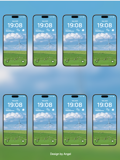
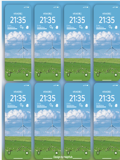
Rebuild multi-phone templates with exact reference-site positions and add variable canvas size
Extracted precise transform matrices (translate/scale) and canvas dimensions
directly from mjcn.club/app's DOM for Boundless 3/4/6/7 and 8/10-device grids,
replacing the earlier hand-tuned approximations. Boundless 6/7 and the 8/10
device grids use non-3:4 canvases (900x1600 and 1600x1600/1600x2133.33) that
this project previously couldn't represent, since every template shared one
hardcoded 1200x1600 canvas.

To support that, changeProtoWidth() and the #content canvas element now read
canvasWidth/canvasHeight from the selected template (defaulting to 1200x1600
for every existing template, so nothing else changes) instead of hardcoding
the 3:4 ratio and 1200px width. Verified default templates and all 8 grid
templates render and export correctly with no console errors.

diff --git a/pages/mockup/index.vue b/pages/mockup/index.vue
@@ -30,8 +30,12 @@ const boundlessThreeImage = '/image/proto/boundless-three.png'
 const boundlessFourImage = '/image/proto/boundless-four.png'
 const seamlessImage = '/image/proto/seamless.png'
 const boundlessFiveImage = '/image/proto/boundless-five.png'
+const boundlessSixImage = '/image/proto/boundless-six.png'
+const boundlessSevenImage = '/image/proto/boundless-seven.png'
 const eightDevicesImage = '/image/proto/eight-devices.png'
+const eightDevices34Image = '/image/proto/eight-devices-34.png'
 const tenDevicesImage = '/image/proto/ten-devices.png'
+const tenDevices34Image = '/image/proto/ten-devices-34.png'
 const magazineImage = '/image/proto/magazine.png'
 const magazineBackgroundImage = '/image/background/magazine.jpg'
 const standImage = '/image/proto/stand.png'
@@ -139,6 +143,11 @@ function changeProtoWidth() {
   let windowWidth = window.innerWidth
   let windowHeight = window.innerHeight
 
+  // 画布尺寸跟随当前选中的模板，未指定时使用默认的 1200x1600
+  let canvasWidth = (selectedProto.value && selectedProto.value.canvasWidth) || 1200
+  let canvasHeight = (selectedProto.value && selectedProto.value.canvasHeight) || 1600
+  let canvasRatio = canvasHeight / canvasWidth
+
   // 判断是横屏还是竖屏
   isVerticalScreen.value = windowWidth < windowHeight
 
@@ -151,22 +160,22 @@ function changeProtoWidth() {
       w.value = maxWidth
     }
 
-    h.value = w.value * 4 / 3;
+    h.value = w.value * canvasRatio;
 
 
-    let s = w.value / 1200
+    let s = w.value / canvasWidth
 
     scale.value = `scale(${s})`
   } else {
     let maxWidth = windowWidth - 328 - 320 - 32;
     let maxHeight = windowHeight - 50 - 60 - 68;
-    let maxHeightToWidth = maxHeight * 3 / 4;
+    let maxHeightToWidth = maxHeight / canvasRatio;
 
     w.value = maxWidth > maxHeightToWidth ? maxHeightToWidth : maxWidth;
 
-    h.value = w.value * 4 / 3;
+    h.value = w.value * canvasRatio;
 
-    let s = w.value / 1200
+    let s = w.value / canvasWidth
 
     scale.value = `scale(${s})`
   }
@@ -420,7 +429,7 @@ function makeGridProto(positions, { defaultScale = 1, frame = true, smartIsLand 
         width: '426px',
         height: '877px',
         transform: `rotate(${rotate}deg) translateX(${pos.x}px) translateY(${pos.y}px) scaleX(${scale}) scaleY(${scale}) perspective(none) skewX(0deg) skewY(0deg) rotateX(0deg) rotateY(0deg) rotateZ(0deg)`,
-        ...(shadow ? { filter: 'drop-shadow(rgba(0, 0, 0, 0.35) -8px 8px 16px)' } : {})
+        ...(shadow ? { filter: 'drop-shadow(rgba(0, 0, 0, 0.4) -10px 5px 20px)' } : {})
       },
       paperStyleMethod: (proto) => {
         return "width: calc(100% - 36px);height: calc(100% - 32px); border-radius: 50px;position: absolute;left: 18px;top: 16px;"
@@ -493,6 +502,8 @@ function protoChange(proto) {
   if (autoUpdate.value) {
     backgroundUrl.value = paperUrl.value
   }
+
+  changeProtoWidth()
 }
 
 let defaultSystemColor = "#ffffff"
@@ -984,21 +995,23 @@ let protoTypeList = ref([
         }
       },
       {
+        // 精确复刻参考站"无界3"：canvas 1200x1600，3台并排，无边框，无阴影
         defaultProtoUrl: boundlessThreeImage,
         exampleName: t("mockup.boundlessThree"),
         protoList: makeGridProto([
-          { x: -330, y: 20, rotate: -8, scale: 0.9 },
-          { x: 330, y: 20, rotate: 8, scale: 0.9 },
-          { x: 0, y: -15, rotate: 0, scale: 1.0 },
-        ], { frame: false, smartIsLand: false, shadow: true }),
+          { x: -385, y: 0, scale: 0.900798 },
+          { x: 0, y: 0, scale: 0.900798 },
+          { x: 385, y: 0, scale: 0.900798 },
+        ], { frame: false, smartIsLand: false, shadow: false }),
         background: makeGridBackground()
       },
       {
+        // 精确复刻参考站"无界4"：canvas 1200x1600，3列x2行网格，无边框，无阴影
         defaultProtoUrl: boundlessFourImage,
         exampleName: t("mockup.boundlessFour"),
         protoList: makeGridProto(
-          gridPositions([-400, 0, 400], [-400, 400]),
-          { defaultScale: 0.85, frame: false, smartIsLand: false, shadow: true }
+          gridPositions([-380, 0, 380], [-380, 380]),
+          { defaultScale: 0.855188, frame: false, smartIsLand: false, shadow: false }
         ),
         background: makeGridBackground()
       },
@@ -1021,20 +1034,74 @@ let protoTypeList = ref([
         background: makeGridBackground()
       },
       {
-        defaultProtoUrl: eightDevicesImage,
-        exampleName: t("mockup.eightDevices"),
+        // 精确复刻参考站"无界6"：canvas 900x1600，3列x3行网格，无边框，无阴影
+        defaultProtoUrl: boundlessSixImage,
+        exampleName: t("mockup.boundlessSix"),
+        canvasWidth: 900,
+        canvasHeight: 1600,
         protoList: makeGridProto(
-          gridPositions([-450, -150, 150, 450], [-400, 400]),
-          { defaultScale: 0.6, frame: true, smartIsLand: true }
+          gridPositions([-280, 0, 280], [-520, 0, 520]),
+          { defaultScale: 0.592934, frame: false, smartIsLand: false, shadow: false }
         ),
         background: makeGridBackground()
       },
       {
+        // 精确复刻参考站"无界7"：canvas 900x1600，2列x2行网格，无边框，无阴影
+        defaultProtoUrl: boundlessSevenImage,
+        exampleName: t("mockup.boundlessSeven"),
+        canvasWidth: 900,
+        canvasHeight: 1600,
+        protoList: makeGridProto(
+          gridPositions([-200, 200], [-380, 380]),
+          { defaultScale: 0.855188, frame: false, smartIsLand: false, shadow: false }
+        ),
+        background: makeGridBackground()
+      },
+      {
+        // 精确复刻参考站"8设备"：canvas 1600x1600（正方形），4列x2行网格，无边框，带阴影
+        defaultProtoUrl: eightDevicesImage,
+        exampleName: t("mockup.eightDevices"),
+        canvasWidth: 1600,
+        canvasHeight: 1600,
+        protoList: makeGridProto(
+          gridPositions([-585, -195, 195, 585], [-386, 386]),
+          { defaultScale: 0.892019, frame: false, smartIsLand: false, shadow: true }
+        ),
+        background: makeGridBackground()
+      },
+      {
+        // 精确复刻参考站"8设备(3:4)"：跟"8设备"手机位置完全相同，只是画布换成 1600x2133.33（3:4）
+        defaultProtoUrl: eightDevices34Image,
+        exampleName: t("mockup.eightDevices34"),
+        canvasWidth: 1600,
+        canvasHeight: 2133.33,
+        protoList: makeGridProto(
+          gridPositions([-585, -195, 195, 585], [-386, 386]),
+          { defaultScale: 0.892019, frame: false, smartIsLand: false, shadow: true }
+        ),
+        background: makeGridBackground()
+      },
+      {
+        // 精确复刻参考站"10设备"：canvas 1600x1600（正方形），5列x2行网格，无边框，带阴影
         defaultProtoUrl: tenDevicesImage,
         exampleName: t("mockup.tenDevices"),
+        canvasWidth: 1600,
+        canvasHeight: 1600,
         protoList: makeGridProto(
-          gridPositions([-480, -240, 0, 240, 480], [-400, 400]),
-          { defaultScale: 0.48, frame: true, smartIsLand: true }
+          gridPositions([-620, -310, 0, 310, 620], [-320, 320]),
+          { defaultScale: 0.704225, frame: false, smartIsLand: false, shadow: true }
+        ),
+        background: makeGridBackground()
+      },
+      {
+        // 精确复刻参考站"10设备(3:4)"：跟"10设备"手机位置完全相同，只是画布换成 1600x2133.33（3:4）
+        defaultProtoUrl: tenDevices34Image,
+        exampleName: t("mockup.tenDevices34"),
+        canvasWidth: 1600,
+        canvasHeight: 2133.33,
+        protoList: makeGridProto(
+          gridPositions([-620, -310, 0, 310, 620], [-320, 320]),
+          { defaultScale: 0.704225, frame: false, smartIsLand: false, shadow: true }
         ),
         background: makeGridBackground()
       },
@@ -2039,7 +2106,8 @@ onMounted(() => {
       <div class="proto-section" :class="{ 'proto-section-landscape': !isVerticalScreen }">
         <div :style="{ width: w + 'px', height: h + 'px' }">
           <div style="transform-origin: top left;" :style="{ transform: scale }">
-            <div ref='resultImage' class="content" id="content" style="width: 1200px; height: 1600px;">
+            <div ref='resultImage' class="content" id="content"
+              :style="{ width: (selectedProto.canvasWidth || 1200) + 'px', height: (selectedProto.canvasHeight || 1600) + 'px' }">
               <template v-if="selectedProto.background.type == 'imageText'">
                 <img id="bg-image" class="bg-image" :src="backgroundUrl"
                   :style="selectedProto.background.backgroundImageStyle()" @load="backgroundImageLoad"></img>
